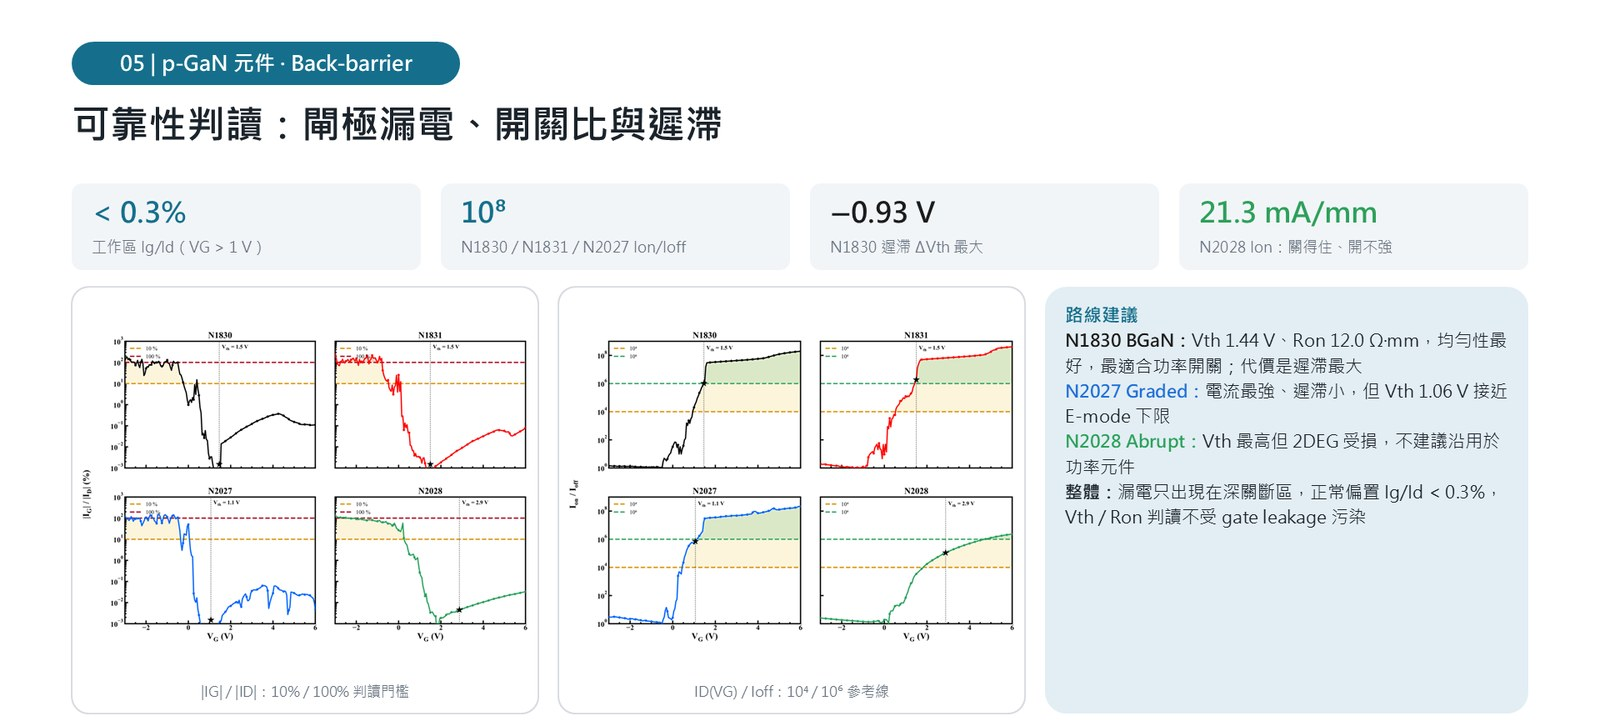
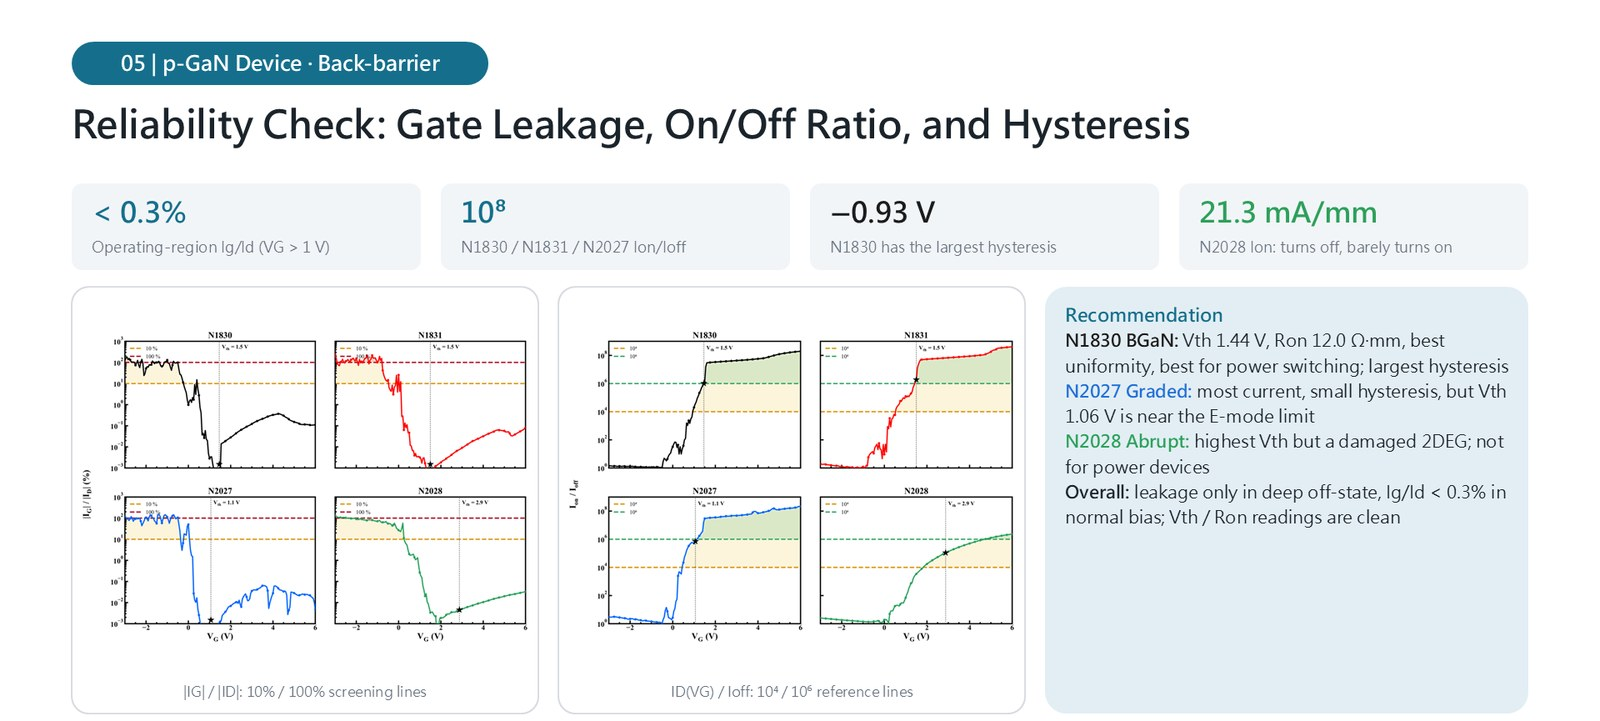
Translate all website slides to English
Re-exports the 20 deck slides in English: interview-deck slides are
translated in place (including the native chart and image-embedded
labels), the p-GaN / SiC / digital-spec slides are regenerated from
English text, and SiC figures get English labels. Slide URLs carry a
version query so cached Chinese images are not served.

diff --git a/index.html b/index.html
@@ -176,8 +176,8 @@
             </div>
 
           <article class="deck-step" data-topic="epi" data-highlight-id="deck-epi-mechanism">
-            <a class="deck-slide" href="assets/slides/deck/gan-epi-mechanism.jpg" target="_blank" rel="noopener">
-              <img src="assets/slides/deck/gan-epi-mechanism.jpg" width="1600" height="721" alt="Multi-channel epitaxy: where the barrier thickness goes decides Vth or Ron" loading="lazy" decoding="async" />
+            <a class="deck-slide" href="assets/slides/deck/gan-epi-mechanism.jpg?v=en1" target="_blank" rel="noopener">
+              <img src="assets/slides/deck/gan-epi-mechanism.jpg?v=en1" width="1600" height="721" alt="Multi-channel epitaxy: where the barrier thickness goes decides Vth or Ron" loading="lazy" decoding="async" />
             </a>
             <div class="deck-copy">
               <p class="tag">Epitaxy · IEDMS 2026</p>
@@ -188,8 +188,8 @@
           </article>
 
           <article class="deck-step" data-topic="epi" data-highlight-id="deck-epi-rule">
-            <a class="deck-slide" href="assets/slides/deck/gan-epi-design-rule.jpg" target="_blank" rel="noopener">
-              <img src="assets/slides/deck/gan-epi-design-rule.jpg" width="1600" height="721" alt="Design rule Y greater than X; gate charge cost cannot be removed by epitaxy" loading="lazy" decoding="async" />
+            <a class="deck-slide" href="assets/slides/deck/gan-epi-design-rule.jpg?v=en1" target="_blank" rel="noopener">
+              <img src="assets/slides/deck/gan-epi-design-rule.jpg?v=en1" width="1600" height="721" alt="Design rule Y greater than X; gate charge cost cannot be removed by epitaxy" loading="lazy" decoding="async" />
             </a>
             <div class="deck-copy">
               <p class="tag">Epitaxy · IEDMS 2026</p>
@@ -200,8 +200,8 @@
           </article>
 
           <article class="deck-step" data-topic="aitcad" data-highlight-id="deck-aitcad-method">
-            <a class="deck-slide" href="assets/slides/deck/gan-aitcad-method.jpg" target="_blank" rel="noopener">
-              <img src="assets/slides/deck/gan-aitcad-method.jpg" width="1600" height="721" alt="AI-TCAD: physics rules plan each simulation round instead of a 960-case full sweep" loading="lazy" decoding="async" />
+            <a class="deck-slide" href="assets/slides/deck/gan-aitcad-method.jpg?v=en1" target="_blank" rel="noopener">
+              <img src="assets/slides/deck/gan-aitcad-method.jpg?v=en1" width="1600" height="721" alt="AI-TCAD: physics rules plan each simulation round instead of a 960-case full sweep" loading="lazy" decoding="async" />
             </a>
             <div class="deck-copy">
               <p class="tag">TCAD × AI · IWN 2026</p>
@@ -212,8 +212,8 @@
           </article>
 
           <article class="deck-step" data-topic="aitcad" data-highlight-id="deck-aitcad-results">
-            <a class="deck-slide" href="assets/slides/deck/gan-aitcad-results.jpg" target="_blank" rel="noopener">
-              <img src="assets/slides/deck/gan-aitcad-results.jpg" width="1600" height="721" alt="81 cases converge with 92 percent less simulation time" loading="lazy" decoding="async" />
+            <a class="deck-slide" href="assets/slides/deck/gan-aitcad-results.jpg?v=en1" target="_blank" rel="noopener">
+              <img src="assets/slides/deck/gan-aitcad-results.jpg?v=en1" width="1600" height="721" alt="81 cases converge with 92 percent less simulation time" loading="lazy" decoding="async" />
             </a>
             <div class="deck-copy">
               <p class="tag">TCAD × AI · IWN 2026</p>
@@ -240,8 +240,8 @@
             </div>
 
           <article class="deck-step" data-topic="ebl" data-highlight-id="deck-ebl">
-            <a class="deck-slide" href="assets/slides/deck/gan-ebl-pfa.jpg" target="_blank" rel="noopener">
-              <img src="assets/slides/deck/gan-ebl-pfa.jpg" width="1600" height="721" alt="EBL PFA: top-view SEM separates the effects of dose and beam current" loading="lazy" decoding="async" />
+            <a class="deck-slide" href="assets/slides/deck/gan-ebl-pfa.jpg?v=en1" target="_blank" rel="noopener">
+              <img src="assets/slides/deck/gan-ebl-pfa.jpg?v=en1" width="1600" height="721" alt="EBL PFA: top-view SEM separates the effects of dose and beam current" loading="lazy" decoding="async" />
             </a>
             <div class="deck-copy">
               <p class="tag">Process · EBL PFA</p>
@@ -252,8 +252,8 @@
           </article>
 
           <article class="deck-step" data-topic="etch" data-highlight-id="deck-etch">
-            <a class="deck-slide" href="assets/slides/deck/gan-etch-pfa.jpg" target="_blank" rel="noopener">
-              <img src="assets/slides/deck/gan-etch-pfa.jpg" width="1600" height="721" alt="Etch PFA: FIB cross-sections and etch parameters trace morphology back to root cause" loading="lazy" decoding="async" />
+            <a class="deck-slide" href="assets/slides/deck/gan-etch-pfa.jpg?v=en1" target="_blank" rel="noopener">
+              <img src="assets/slides/deck/gan-etch-pfa.jpg?v=en1" width="1600" height="721" alt="Etch PFA: FIB cross-sections and etch parameters trace morphology back to root cause" loading="lazy" decoding="async" />
             </a>
             <div class="deck-copy">
               <p class="tag">Process · Etch PFA</p>
@@ -275,8 +275,8 @@
           <summary class="research-block-title"><span>03</span><span data-i18n="research.block3">多通道 SBD C-V 特性研究</span><span class="block-count">1 <span data-i18n="block.slides">頁</span></span></summary>
           <div class="deck" data-deck aria-label="Multi-channel SBD C-V slides" data-i18n-attr="aria-label:research.block3">
           <article class="deck-step" data-topic="cv" data-highlight-id="deck-cv">
-            <a class="deck-slide" href="assets/slides/deck/gan-cv-efa.jpg" target="_blank" rel="noopener">
-              <img src="assets/slides/deck/gan-cv-efa.jpg" width="1600" height="721" alt="EFA: C-V measurement verifies epitaxy and separates equipment limits from sample issues" loading="lazy" decoding="async" />
+            <a class="deck-slide" href="assets/slides/deck/gan-cv-efa.jpg?v=en1" target="_blank" rel="noopener">
+              <img src="assets/slides/deck/gan-cv-efa.jpg?v=en1" width="1600" height="721" alt="EFA: C-V measurement verifies epitaxy and separates equipment limits from sample issues" loading="lazy" decoding="async" />
             </a>
             <div class="deck-copy">
               <p class="tag">Measurement · EFA</p>
@@ -299,8 +299,8 @@
             </div>
 
           <article class="deck-step" data-topic="pg1" data-highlight-id="deck-pgan-samples">
-            <a class="deck-slide" href="assets/slides/deck/gan-pgan-samples.jpg" target="_blank" rel="noopener">
-              <img src="assets/slides/deck/gan-pgan-samples.jpg" width="1600" height="721" alt="p-GaN gate HFET: four back-barrier designs and their threshold voltage distribution" loading="lazy" decoding="async" />
+            <a class="deck-slide" href="assets/slides/deck/gan-pgan-samples.jpg?v=en1" target="_blank" rel="noopener">
+              <img src="assets/slides/deck/gan-pgan-samples.jpg?v=en1" width="1600" height="721" alt="p-GaN gate HFET: four back-barrier designs and their threshold voltage distribution" loading="lazy" decoding="async" />
             </a>
             <div class="deck-copy">
               <p class="tag">p-GaN HFET · Back-barrier</p>
@@ -311,8 +311,8 @@
           </article>
 
           <article class="deck-step" data-topic="pg2" data-highlight-id="deck-pgan-ron">
-            <a class="deck-slide" href="assets/slides/deck/gan-pgan-ron.jpg" target="_blank" rel="noopener">
-              <img src="assets/slides/deck/gan-pgan-ron.jpg" width="1600" height="721" alt="p-GaN HFET on-resistance, drive current, and pre-passivation TLM comparison" loading="lazy" decoding="async" />
+            <a class="deck-slide" href="assets/slides/deck/gan-pgan-ron.jpg?v=en1" target="_blank" rel="noopener">
+              <img src="assets/slides/deck/gan-pgan-ron.jpg?v=en1" width="1600" height="721" alt="p-GaN HFET on-resistance, drive current, and pre-passivation TLM comparison" loading="lazy" decoding="async" />
             </a>
             <div class="deck-copy">
               <p class="tag">p-GaN HFET · Ron &amp; TLM</p>
@@ -323,8 +323,8 @@
           </article>
 
           <article class="deck-step" data-topic="pg3" data-highlight-id="deck-pgan-reliability">
-            <a class="deck-slide" href="assets/slides/deck/gan-pgan-reliability.jpg" target="_blank" rel="noopener">
-              <img src="assets/slides/deck/gan-pgan-reliability.jpg" width="1600" height="721" alt="p-GaN HFET gate leakage, on/off ratio, hysteresis, and route recommendation" loading="lazy" decoding="async" />
+            <a class="deck-slide" href="assets/slides/deck/gan-pgan-reliability.jpg?v=en1" target="_blank" rel="noopener">
+              <img src="assets/slides/deck/gan-pgan-reliability.jpg?v=en1" width="1600" height="721" alt="p-GaN HFET gate leakage, on/off ratio, hysteresis, and route recommendation" loading="lazy" decoding="async" />
             </a>
             <div class="deck-copy">
               <p class="tag">p-GaN HFET · Reliability</p>
@@ -364,8 +364,8 @@
           </div>
 
           <article class="deck-step" data-topic="sic-process">
-            <a class="deck-slide" href="assets/slides/deck/sic-process-structure.jpg" target="_blank" rel="noopener">
-              <img src="assets/slides/deck/sic-process-structure.jpg" width="1600" height="721" alt="SiC VDMOS process simulation, mesh, and equipotential structure model" loading="lazy" decoding="async" />
+            <a class="deck-slide" href="assets/slides/deck/sic-process-structure.jpg?v=en1" target="_blank" rel="noopener">
+              <img src="assets/slides/deck/sic-process-structure.jpg?v=en1" width="1600" height="721" alt="SiC VDMOS process simulation, mesh, and equipotential structure model" loading="lazy" decoding="async" />
             </a>
             <div class="deck-copy">
               <p class="tag">SiC · Process &amp; Structure</p>
@@ -376,8 +376,8 @@
           </article>
 
           <article class="deck-step" data-topic="sic-sim">
-            <a class="deck-slide" href="assets/slides/deck/sic-sim-vth-ron.jpg" target="_blank" rel="noopener">
-              <img src="assets/slides/deck/sic-sim-vth-ron.jpg" width="1600" height="721" alt="SiC VDMOS threshold voltage and on-resistance simulation from 300 to 1000 K" loading="lazy" decoding="async" />
+            <a class="deck-slide" href="assets/slides/deck/sic-sim-vth-ron.jpg?v=en1" target="_blank" rel="noopener">
+              <img src="assets/slides/deck/sic-sim-vth-ron.jpg?v=en1" width="1600" height="721" alt="SiC VDMOS threshold voltage and on-resistance simulation from 300 to 1000 K" loading="lazy" decoding="async" />
             </a>
             <div class="deck-copy">
               <p class="tag">SiC · TCAD 300–1000 K</p>
@@ -388,8 +388,8 @@
           </article>
 
           <article class="deck-step" data-topic="sic-sim">
-            <a class="deck-slide" href="assets/slides/deck/sic-sim-bv.jpg" target="_blank" rel="noopener">
-              <img src="assets/slides/deck/sic-sim-bv.jpg" width="1600" height="721" alt="SiC VDMOS breakdown voltage and space-charge simulation versus temperature" loading="lazy" decoding="async" />
+            <a class="deck-slide" href="assets/slides/deck/sic-sim-bv.jpg?v=en1" target="_blank" rel="noopener">
+              <img src="assets/slides/deck/sic-sim-bv.jpg?v=en1" width="1600" height="721" alt="SiC VDMOS breakdown voltage and space-charge simulation versus temperature" loading="lazy" decoding="async" />
             </a>
             <div class="deck-copy">
               <p class="tag">SiC · TCAD 300–1000 K</p>
@@ -400,8 +400,8 @@
           </article>
 
           <article class="deck-step" data-topic="sic-platform">
-            <a class="deck-slide" href="assets/slides/deck/sic-test-platform.jpg" target="_blank" rel="noopener">
-              <img src="assets/slides/deck/sic-test-platform.jpg" width="1600" height="721" alt="Self-built high-temperature test platform with furnace, static bench, and double-pulse bench" loading="lazy" decoding="async" />
+            <a class="deck-slide" href="assets/slides/deck/sic-test-platform.jpg?v=en1" target="_blank" rel="noopener">
+              <img src="assets/slides/deck/sic-test-platform.jpg?v=en1" width="1600" height="721" alt="Self-built high-temperature test platform with furnace, static bench, and double-pulse bench" loading="lazy" decoding="async" />
             </a>
             <div class="deck-copy">
               <p class="tag">SiC · Test platform</p>
@@ -412,8 +412,8 @@
           </article>
 
           <article class="deck-step" data-topic="sic-meas" data-highlight-id="deck-sic-static">
-            <a class="deck-slide" href="assets/slides/deck/sic-meas-static.jpg" target="_blank" rel="noopener">
-              <img src="assets/slides/deck/sic-meas-static.jpg" width="1600" height="721" alt="High-temperature static measurement: threshold voltage, on-resistance, and breakdown" loading="lazy" decoding="async" />
+            <a class="deck-slide" href="assets/slides/deck/sic-meas-static.jpg?v=en1" target="_blank" rel="noopener">
+              <img src="assets/slides/deck/sic-meas-static.jpg?v=en1" width="1600" height="721" alt="High-temperature static measurement: threshold voltage, on-resistance, and breakdown" loading="lazy" decoding="async" />
             </a>
             <div class="deck-copy">
               <p class="tag">SiC · Static measurement</p>
@@ -424,8 +424,8 @@
           </article>
 
           <article class="deck-step" data-topic="sic-meas" data-highlight-id="deck-sic-dynamic">
-            <a class="deck-slide" href="assets/slides/deck/sic-meas-dynamic.jpg" target="_blank" rel="noopener">
-              <img src="assets/slides/deck/sic-meas-dynamic.jpg" width="1600" height="721" alt="High-temperature double-pulse measurement of reverse-recovery charge" loading="lazy" decoding="async" />
+            <a class="deck-slide" href="assets/slides/deck/sic-meas-dynamic.jpg?v=en1" target="_blank" rel="noopener">
+              <img src="assets/slides/deck/sic-meas-dynamic.jpg?v=en1" width="1600" height="721" alt="High-temperature double-pulse measurement of reverse-recovery charge" loading="lazy" decoding="async" />
             </a>
             <div class="deck-copy">
               <p class="tag">SiC · Dynamic measurement</p>
@@ -563,8 +563,8 @@
             </div>
 
           <article class="deck-step" data-topic="jk-design">
-            <a class="deck-slide" href="assets/slides/deck/ic-digital-jk.jpg" target="_blank" rel="noopener">
-              <img src="assets/slides/deck/ic-digital-jk.jpg" width="1600" height="721" alt="SN74LVC112A dual negative-edge-triggered J-K flip-flop logic and full-custom layout" loading="lazy" decoding="async" />
+            <a class="deck-slide" href="assets/slides/deck/ic-digital-jk.jpg?v=en1" target="_blank" rel="noopener">
+              <img src="assets/slides/deck/ic-digital-jk.jpg?v=en1" width="1600" height="721" alt="SN74LVC112A dual negative-edge-triggered J-K flip-flop logic and full-custom layout" loading="lazy" decoding="async" />
             </a>
             <div class="deck-copy">
               <p class="tag">Digital · Full-custom</p>
@@ -575,8 +575,8 @@
           </article>
 
           <article class="deck-step" data-topic="jk-spec" data-highlight-id="deck-jk-spec">
-            <a class="deck-slide" href="assets/slides/deck/ic-digital-spec.jpg" target="_blank" rel="noopener">
-              <img src="assets/slides/deck/ic-digital-spec.jpg" width="1600" height="721" alt="Digital IC spec analysis: pre- and post-layout results against the SN74LVC112A datasheet" loading="lazy" decoding="async" />
+            <a class="deck-slide" href="assets/slides/deck/ic-digital-spec.jpg?v=en1" target="_blank" rel="noopener">
+              <img src="assets/slides/deck/ic-digital-spec.jpg?v=en1" width="1600" height="721" alt="Digital IC spec analysis: pre- and post-layout results against the SN74LVC112A datasheet" loading="lazy" decoding="async" />
             </a>
             <div class="deck-copy">
               <p class="tag">Digital · Spec analysis</p>
@@ -603,8 +603,8 @@
             </div>
 
           <article class="deck-step" data-topic="ana-circuit">
-            <a class="deck-slide" href="assets/slides/deck/ic-analog-circuit-layout.jpg" target="_blank" rel="noopener">
-              <img src="assets/slides/deck/ic-analog-circuit-layout.jpg" width="1600" height="721" alt="Analog IC: op-amp and hysteresis comparator reconfigurable circuit schematic and layout" loading="lazy" decoding="async" />
+            <a class="deck-slide" href="assets/slides/deck/ic-analog-circuit-layout.jpg?v=en1" target="_blank" rel="noopener">
+              <img src="assets/slides/deck/ic-analog-circuit-layout.jpg?v=en1" width="1600" height="721" alt="Analog IC: op-amp and hysteresis comparator reconfigurable circuit schematic and layout" loading="lazy" decoding="async" />
             </a>
             <div class="deck-copy">
               <p class="tag">Analog · Schematic &amp; Layout</p>
@@ -615,8 +615,8 @@
           </article>
 
           <article class="deck-step" data-topic="ana-corner" data-highlight-id="deck-ana-corner">
-            <a class="deck-slide" href="assets/slides/deck/ic-analog-corner.jpg" target="_blank" rel="noopener">
-              <img src="assets/slides/deck/ic-analog-corner.jpg" width="1600" height="721" alt="Using corners and layout matching to judge spec margin and yield risk" loading="lazy" decoding="async" />
+            <a class="deck-slide" href="assets/slides/deck/ic-analog-corner.jpg?v=en1" target="_blank" rel="noopener">
+              <img src="assets/slides/deck/ic-analog-corner.jpg?v=en1" width="1600" height="721" alt="Using corners and layout matching to judge spec margin and yield risk" loading="lazy" decoding="async" />
             </a>
             <div class="deck-copy">
               <p class="tag">Analog · Corner &amp; Spec margin</p>
